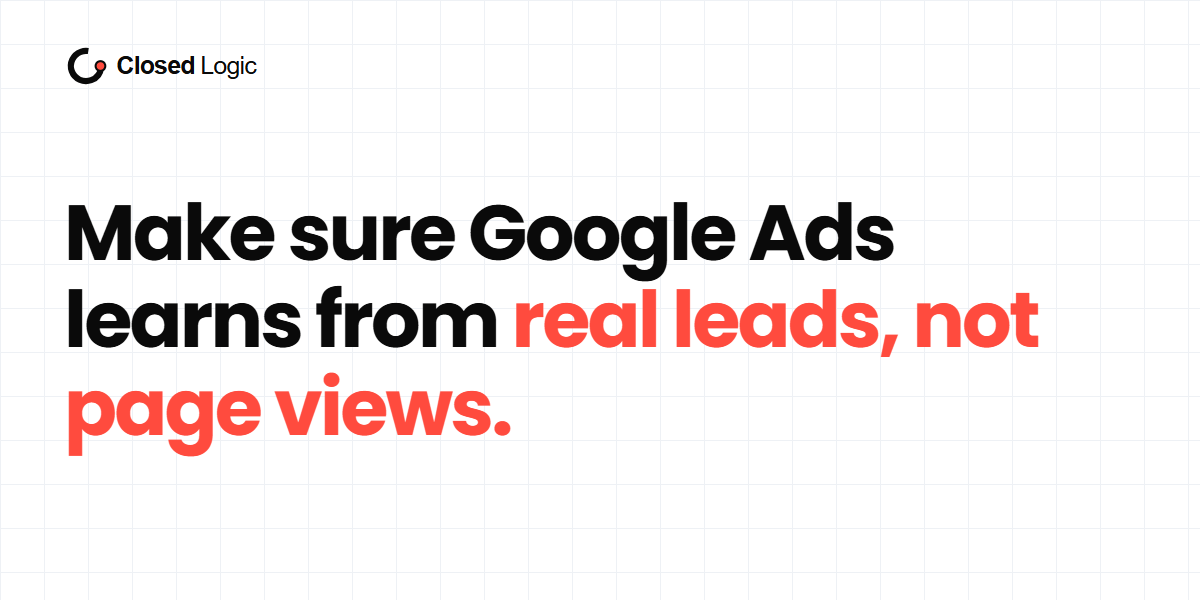
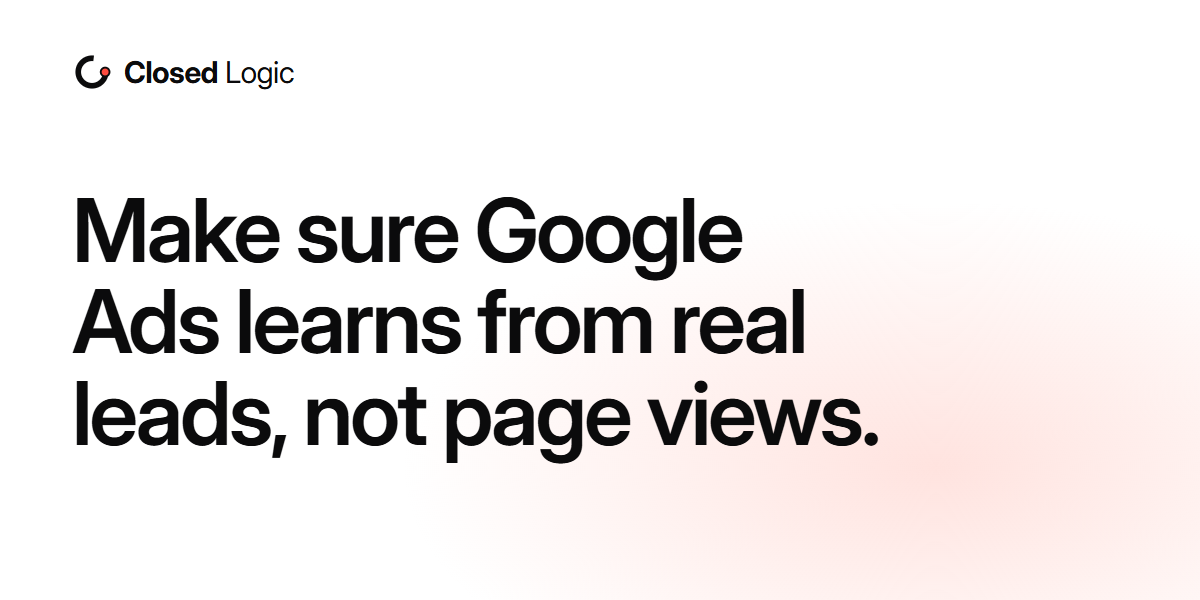
Share images in the new style

Changed region(s): [[0.0308, 0.33, 0.8633, 0.6], [0.0308, 0.63, 0.8942, 0.9], [0.0308, 0.06, 0.2467, 0.15]]

diff --git a/scripts/og-v3.html b/scripts/og-v3.html
@@ -3,27 +3,31 @@
 <head>
 <meta charset="utf-8">
 <title>Closed Logic share image</title>
-<!-- Rendered to public/closedlogic-og-v3-1200x630.png and -x-1200x600.png by scripts/make-og.mjs. -->
-<link rel="stylesheet" href="https://fonts.googleapis.com/css2?family=Fira+Sans:wght@400;500&family=Poppins:wght@400;600;700&display=swap">
+<!-- Rendered to public/closedlogic-og-v3-1200x630.png and -x-1200x600.png by scripts/make-og.mjs.
+     "Bright and crisp" system: white, Inter (the site's self-hosted file), brand red only on the logo dot and the glow.
+     Content is the wordmark and the headline only; keep the alt text in app/seo.ts in step with it. -->
 <style>
-  :root { --ink:#0a0a0a; --body:#4b5563; --accent:#ff4b3e; --accent-text:#d1332a; --rule:#e5e7eb; --grid:#eef1f5; }
+  @font-face { font-family: "Inter"; font-weight: 400 700; font-style: normal; src: url("../app/fonts/inter-latin-var.woff2") format("woff2"); }
+  :root { --fg:#0b0b0c; --brand:#ff4b3e; --glow:#ffe3df; }
   * { box-sizing: border-box; margin: 0; }
-  html, body { width: 1200px; background: #fff; font-family: "Fira Sans", Arial, sans-serif; color: var(--ink); }
+  html, body { width: 1200px; background: #fff; font-family: "Inter", Arial, sans-serif; font-optical-sizing: auto; color: var(--fg); -webkit-font-smoothing: antialiased; }
   .frame {
-    width: 1200px; height: var(--h, 630px); padding: 56px 64px; display: grid; align-items: center;
-    background-color: #fff;
-    background-image: linear-gradient(var(--grid) 1px, transparent 1px), linear-gradient(90deg, var(--grid) 1px, transparent 1px);
-    background-size: 44px 44px; position: relative;
+    width: 1200px; height: var(--h, 630px); padding: 56px 72px; display: grid; align-items: center; position: relative; overflow: hidden;
+    background: radial-gradient(760px 380px at 78% 78%, var(--glow), transparent 70%), #fff;
   }
-  .brand { position: absolute; left: 64px; top: 44px; height: 44px; }
-  h1 { font-family: Poppins, Arial, sans-serif; font-weight: 700; font-size: 78px; line-height: 1.12; letter-spacing: -0.035em; margin-top: 40px; max-width: 1072px; }
-  h1 span { color: var(--accent); }
+  .brand { position: absolute; left: 72px; top: 52px; display: flex; align-items: center; gap: 12px; font-size: 30px; letter-spacing: -0.02em; line-height: 1; }
+  .brand svg { width: 40px; height: 40px; }
+  .brand b { font-weight: 700; } .brand span { font-weight: 400; }
+  h1 { font-weight: 600; font-size: 88px; line-height: 1.04; letter-spacing: -0.035em; margin-top: 44px; max-width: 1040px; text-wrap: balance; }
 </style>
 </head>
 <body>
 <div class="frame" id="frame">
-  <img class="brand" src="../public/closed-logic-logo.svg" alt="Closed Logic">
-  <h1>Make sure Google Ads learns from <span>real leads, not page views.</span></h1>
+  <div class="brand">
+    <svg viewBox="0 0 64 64" aria-hidden="true"><circle cx="32" cy="32" r="22" fill="none" stroke="#0b0b0c" stroke-width="9" stroke-dasharray="104 34" stroke-dashoffset="-10" transform="rotate(-20 32 32)"/><circle cx="53" cy="32" r="7" fill="#ff4b3e" stroke="#0b0b0c" stroke-width="3"/></svg>
+    <div><b>Closed</b> <span>Logic</span></div>
+  </div>
+  <h1>Make sure Google Ads learns from real leads, not page views.</h1>
 </div>
 </body>
 </html>
